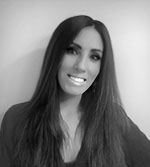
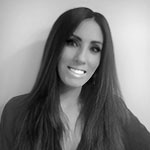
recrop Amanda photo

diff --git a/_site/authors/rx2solutions.html b/_site/authors/rx2solutions.html
@@ -23,9 +23,9 @@
 <meta property="og:url" content="http://localhost:4000/authors/rx2solutions.html" />
 <meta property="og:site_name" content="RX2Solutions.github.io" />
 <meta property="og:type" content="article" />
-<meta property="article:published_time" content="2021-04-30T13:09:39-04:00" />
+<meta property="article:published_time" content="2021-05-01T10:08:49-04:00" />
 <script type="application/ld+json">
-{"url":"http://localhost:4000/authors/rx2solutions.html","headline":"Rx2solutions","dateModified":"2021-04-30T13:09:39-04:00","datePublished":"2021-04-30T13:09:39-04:00","mainEntityOfPage":{"@type":"WebPage","@id":"http://localhost:4000/authors/rx2solutions.html"},"description":"Sometimes we prefer to let the whole team take credit","@type":"BlogPosting","@context":"https://schema.org"}</script>
+{"url":"http://localhost:4000/authors/rx2solutions.html","headline":"Rx2solutions","dateModified":"2021-05-01T10:08:49-04:00","datePublished":"2021-05-01T10:08:49-04:00","mainEntityOfPage":{"@type":"WebPage","@id":"http://localhost:4000/authors/rx2solutions.html"},"description":"Sometimes we prefer to let the whole team take credit","@type":"BlogPosting","@context":"https://schema.org"}</script>
 <!-- End Jekyll SEO tag -->
 
   </head>

diff --git a/_site/authors/jill.html b/_site/authors/jill.html
@@ -23,9 +23,9 @@
 <meta property="og:url" content="http://localhost:4000/authors/jill.html" />
 <meta property="og:site_name" content="RX2Solutions.github.io" />
 <meta property="og:type" content="article" />
-<meta property="article:published_time" content="2021-04-30T13:09:39-04:00" />
+<meta property="article:published_time" content="2021-05-01T10:08:49-04:00" />
 <script type="application/ld+json">
-{"url":"http://localhost:4000/authors/jill.html","headline":"Jill","dateModified":"2021-04-30T13:09:39-04:00","datePublished":"2021-04-30T13:09:39-04:00","mainEntityOfPage":{"@type":"WebPage","@id":"http://localhost:4000/authors/jill.html"},"description":"Jill is an avid fruit grower based in the south of France.","@type":"BlogPosting","@context":"https://schema.org"}</script>
+{"url":"http://localhost:4000/authors/jill.html","headline":"Jill","dateModified":"2021-05-01T10:08:49-04:00","datePublished":"2021-05-01T10:08:49-04:00","mainEntityOfPage":{"@type":"WebPage","@id":"http://localhost:4000/authors/jill.html"},"description":"Jill is an avid fruit grower based in the south of France.","@type":"BlogPosting","@context":"https://schema.org"}</script>
 <!-- End Jekyll SEO tag -->
 
   </head>

diff --git a/_site/authors/ted.html b/_site/authors/ted.html
@@ -23,9 +23,9 @@
 <meta property="og:url" content="http://localhost:4000/authors/ted.html" />
 <meta property="og:site_name" content="RX2Solutions.github.io" />
 <meta property="og:type" content="article" />
-<meta property="article:published_time" content="2021-04-30T13:09:39-04:00" />
+<meta property="article:published_time" content="2021-05-01T10:08:49-04:00" />
 <script type="application/ld+json">
-{"url":"http://localhost:4000/authors/ted.html","headline":"Ted","dateModified":"2021-04-30T13:09:39-04:00","datePublished":"2021-04-30T13:09:39-04:00","mainEntityOfPage":{"@type":"WebPage","@id":"http://localhost:4000/authors/ted.html"},"description":"Ted has been eating fruit since he was baby.","@type":"BlogPosting","@context":"https://schema.org"}</script>
+{"url":"http://localhost:4000/authors/ted.html","headline":"Ted","dateModified":"2021-05-01T10:08:49-04:00","datePublished":"2021-05-01T10:08:49-04:00","mainEntityOfPage":{"@type":"WebPage","@id":"http://localhost:4000/authors/ted.html"},"description":"Ted has been eating fruit since he was baby.","@type":"BlogPosting","@context":"https://schema.org"}</script>
 <!-- End Jekyll SEO tag -->
 
   </head>
